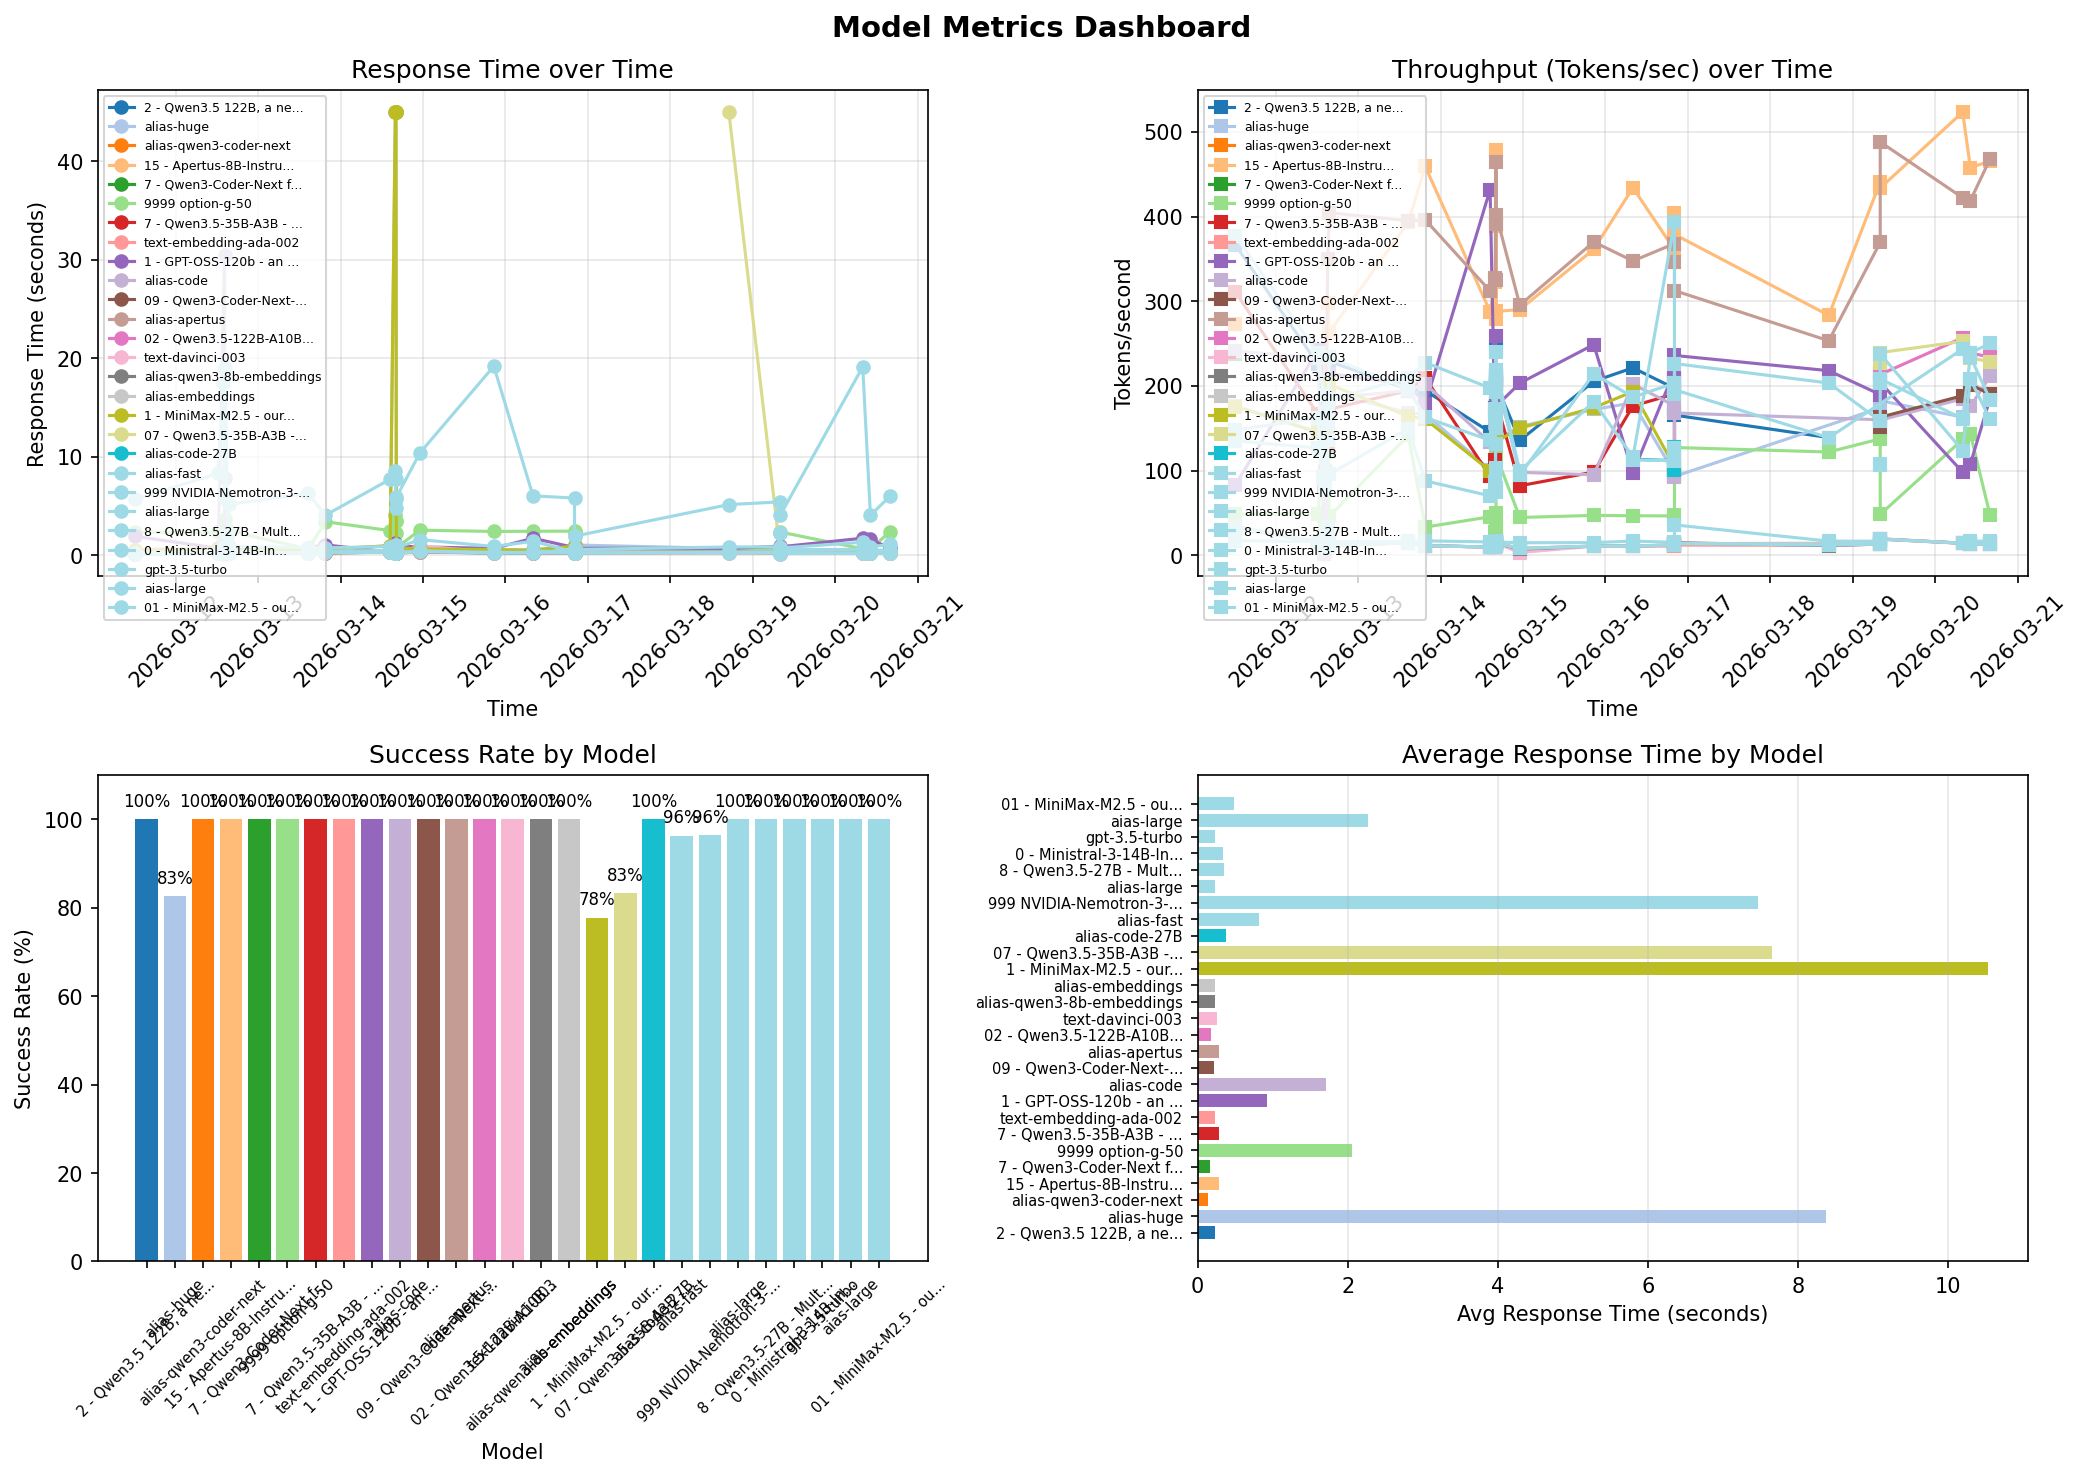
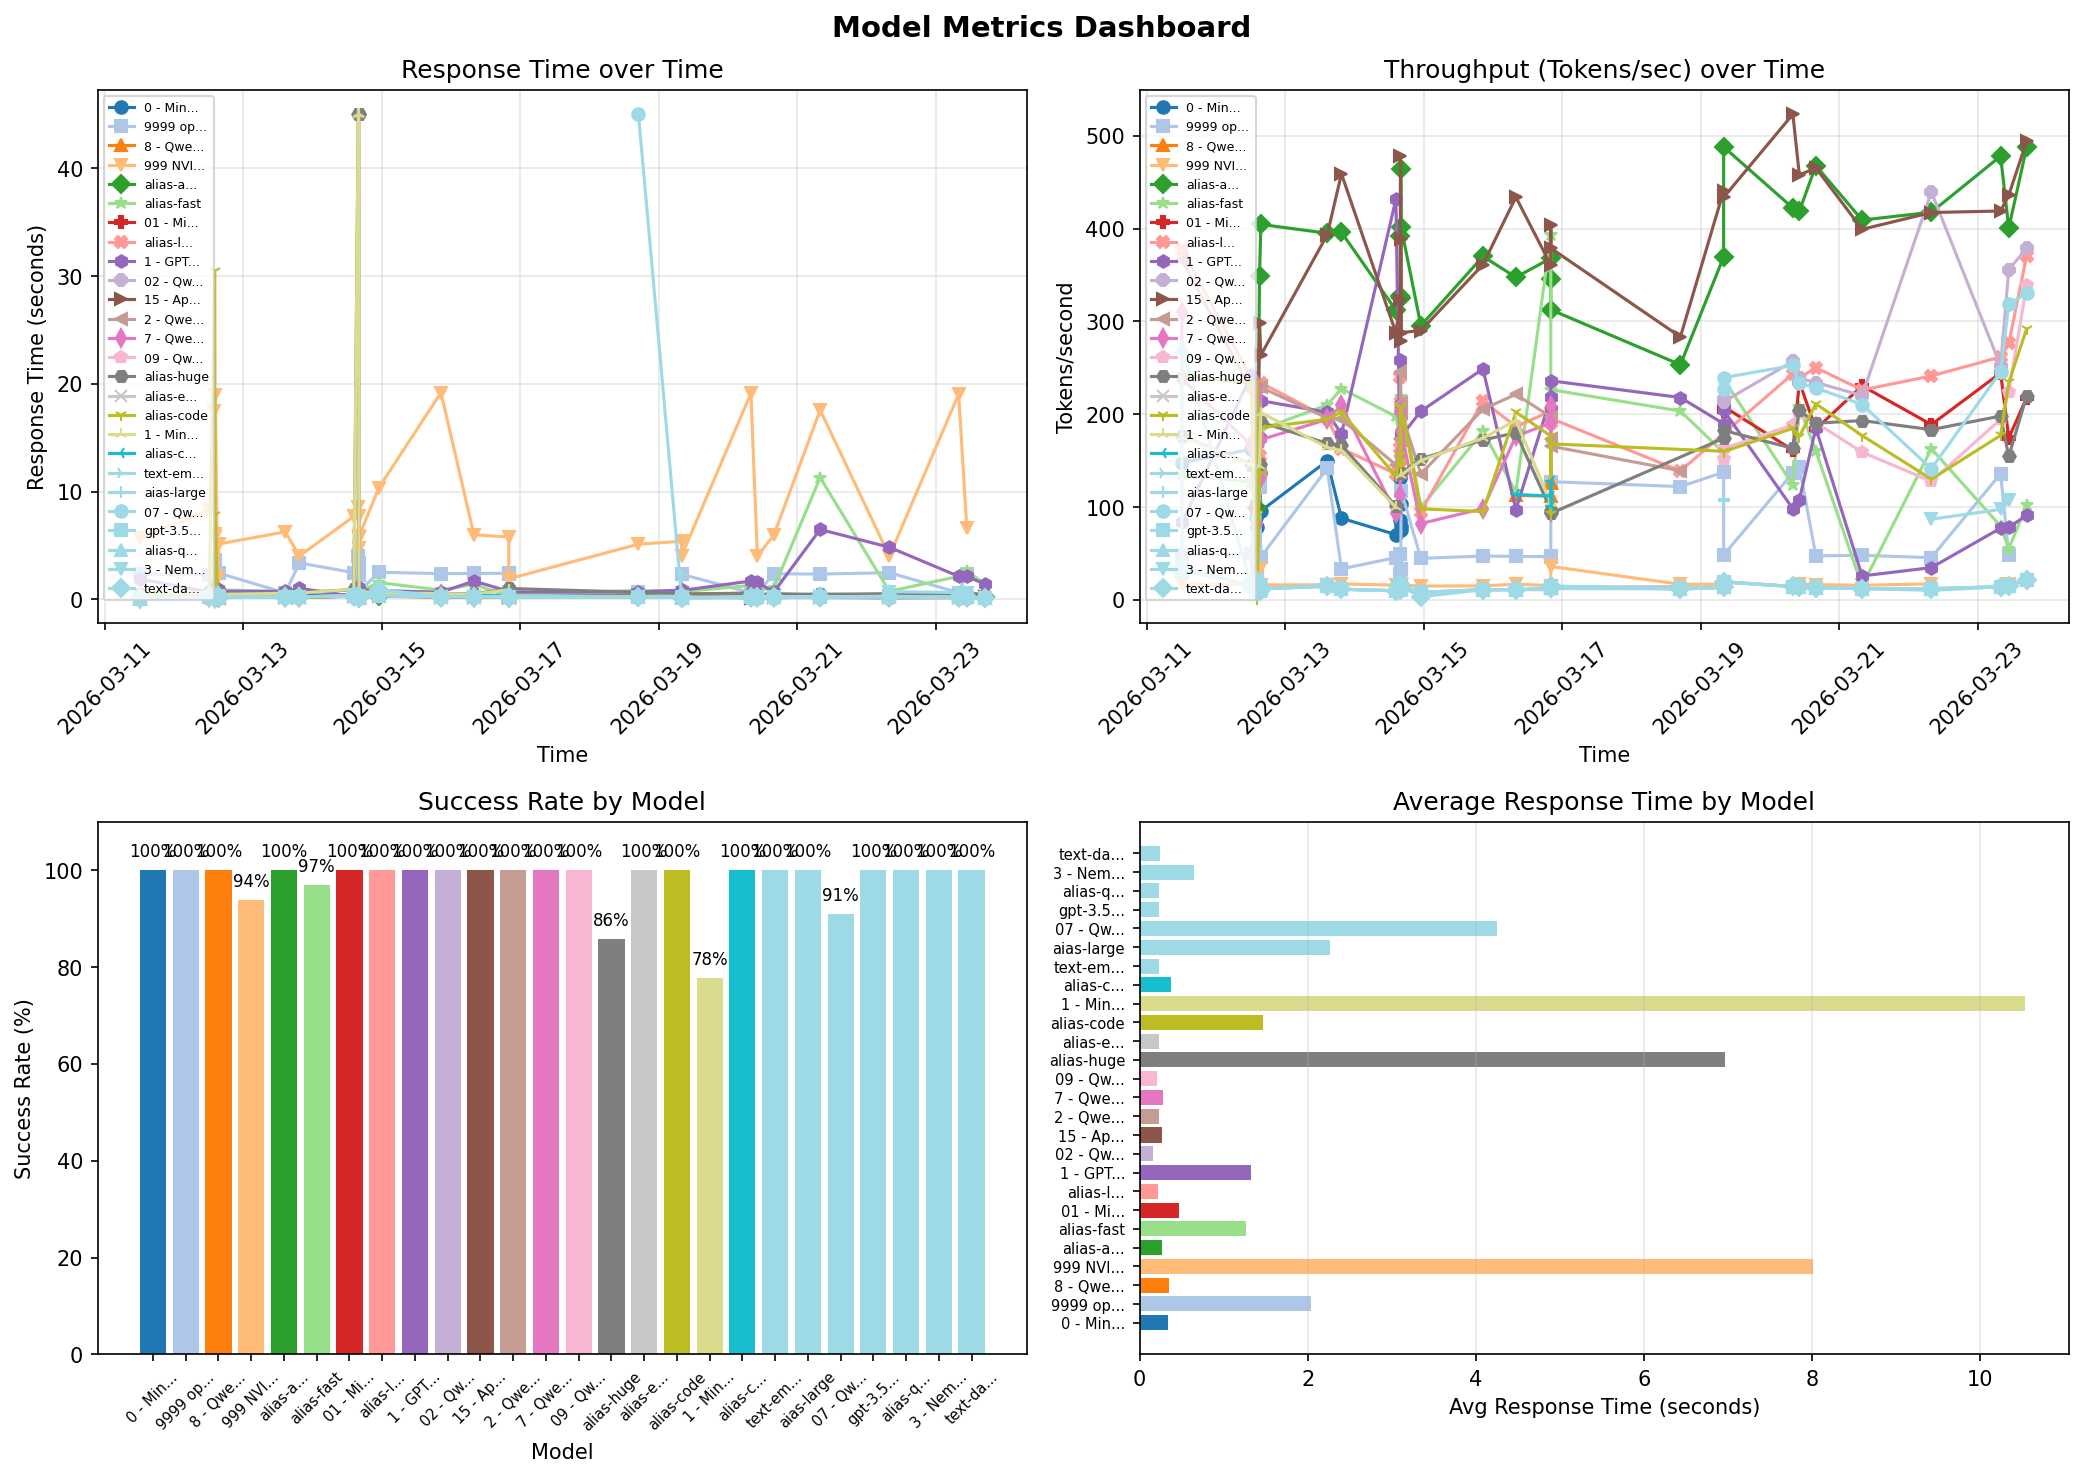
Update metrics plot and script

diff --git a/plot_metrics.py b/plot_metrics.py
@@ -22,10 +22,14 @@ async def get_all_metrics(db_path: str = DEFAULT_DB_PATH) -> list[dict]:
             return [dict(row) for row in rows]
 
 
-def shorten_model_name(name: str, max_len: int = 25) -> str:
+def shorten_model_name(name: str, max_len: int = 10) -> str:
     if len(name) <= max_len:
         return name
     return name[:max_len-3] + "..."
+
+
+# Different marker shapes for different models (enough for 30 models)
+MARKERS = ["o", "s", "^", "v", "D", "*", "P", "X", "h", "8", ">", "<", "d", "p", "H", "x", "1", "2", "3", "4", "+", "o", "s", "^", "v", "D", "*", "P", "X", "h"]
 
 
 async def main():
@@ -38,22 +42,30 @@ async def main():
         m["timestamp_dt"] = datetime.fromisoformat(m["timestamp"])
         m["short_model"] = shorten_model_name(m["model"])
 
-    models = list(set(m["short_model"] for m in metrics))
-    colors = plt.cm.tab20(range(len(models)))
-    model_colors = dict(zip(models, colors))
+    # Get unique full model names (not shortened)
+    models_full = list(set(m["model"] for m in metrics))
+    
+    # Get unique short model names for display
+    models_short = list(set(m["short_model"] for m in metrics))
+    
+    # Create color and marker maps based on short model names (for display)
+    num_models = len(models_short)
+    colors = plt.cm.tab20(range(num_models))
+    model_colors = dict(zip(models_short, colors))
+    model_markers = dict(zip(models_short, MARKERS[:num_models]))
 
     fig, axes = plt.subplots(2, 2, figsize=(14, 10))
     fig.suptitle("Model Metrics Dashboard", fontsize=14, fontweight="bold")
 
     ax1 = axes[0, 0]
-    for model in models:
-        model_data = [m for m in metrics if m["short_model"] == model]
+    for model_short in models_short:
+        model_data = [m for m in metrics if m["short_model"] == model_short]
         ax1.plot(
             [m["timestamp_dt"] for m in model_data],
             [m["elapsed_seconds"] for m in model_data],
-            marker="o",
-            label=model,
-            color=model_colors[model],
+            marker=model_markers[model_short],
+            label=model_short,
+            color=model_colors[model_short],
         )
     ax1.set_xlabel("Time")
     ax1.set_ylabel("Response Time (seconds)")
@@ -64,14 +76,14 @@ async def main():
     ax1.grid(True, alpha=0.3)
 
     ax2 = axes[0, 1]
-    for model in models:
-        model_data = [m for m in metrics if m["short_model"] == model]
+    for model_short in models_short:
+        model_data = [m for m in metrics if m["short_model"] == model_short]
         ax2.plot(
             [m["timestamp_dt"] for m in model_data],
             [m["tokens_per_second"] for m in model_data],
-            marker="s",
-            label=model,
-            color=model_colors[model],
+            marker=model_markers[model_short],
+            label=model_short,
+            color=model_colors[model_short],
         )
     ax2.set_xlabel("Time")
     ax2.set_ylabel("Tokens/second")
@@ -83,11 +95,11 @@ async def main():
 
     ax3 = axes[1, 0]
     success_counts = {}
-    for model in models:
-        model_data = [m for m in metrics if m["short_model"] == model]
+    for model_short in models_short:
+        model_data = [m for m in metrics if m["short_model"] == model_short]
         success = sum(1 for m in model_data if m["success"])
         total = len(model_data)
-        success_counts[model] = success / total * 100 if total > 0 else 0
+        success_counts[model_short] = success / total * 100 if total > 0 else 0
     bars = ax3.bar(success_counts.keys(), success_counts.values(), color=[model_colors[m] for m in success_counts])
     ax3.set_xlabel("Model")
     ax3.set_ylabel("Success Rate (%)")
@@ -99,10 +111,10 @@ async def main():
 
     ax4 = axes[1, 1]
     avg_times = {}
-    for model in models:
-        model_data = [m for m in metrics if m["short_model"] == model]
+    for model_short in models_short:
+        model_data = [m for m in metrics if m["short_model"] == model_short]
         times = [m["elapsed_seconds"] for m in model_data if m["elapsed_seconds"] is not None]
-        avg_times[model] = sum(times) / len(times) if times else 0
+        avg_times[model_short] = sum(times) / len(times) if times else 0
     bars = ax4.barh(avg_times.keys(), avg_times.values(), color=[model_colors[m] for m in avg_times])
     ax4.set_xlabel("Avg Response Time (seconds)")
     ax4.set_title("Average Response Time by Model")